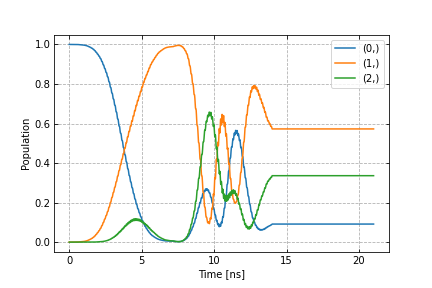
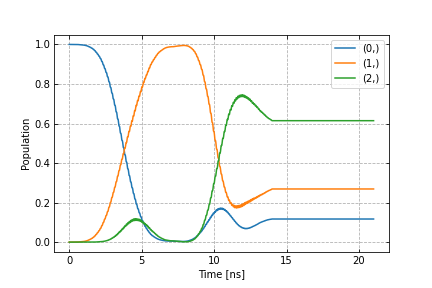
26.5.21

Changed region(s): [[0.3912, 0.1562, 0.8727, 0.8438], [0.5417, 0.2812, 0.8727, 0.4688]]

diff --git a/examples/single_qubit_rabi12.py b/examples/single_qubit_rabi12.py
@@ -39,18 +39,9 @@ def create_experiment(gatetime: np.float64 = 7e-9, anhar = -210e6) -> Exp:
     q1 = chip.Qubit(
         name="Q1",
         desc="Qubit 1",
-        freq=Qty(
-            value=freq,
-            min_val=4.995e9,
-            max_val=5.005e9,
-            unit="Hz 2pi",
-        ),
-        anhar=Qty(
-            value=anhar,
-            # min_val=-380e9,
-            # max_val=-120e6,
-            unit="Hz 2pi",
-        ),
+        freq=Qty(value=freq, min_val=4.995e9, max_val=5.005e9, unit="Hz 2pi"),
+        anhar=Qty(value=anhar, # min_val=-380e9, # max_val=-120e6,
+                 unit="Hz 2pi"),
         hilbert_dim=qubit_lvls,
         temp=Qty(value=qubit_temp, min_val=0.0, max_val=0.12, unit="K"),
     )

diff --git a/c3/utils/qt_utils.py b/c3/utils/qt_utils.py
@@ -167,7 +167,7 @@ def xy_basis(lvls: int, vect: str):
     return psi
 
 
-def projector(dims, indices):
+def projector(dims, indices):   #use that for 3 dim
     """
     Computes the projector to cut down a matrix to the computational space. The
     subspaces indicated in indeces will be projected to the lowest two states,

diff --git a/c3/experiment.py b/c3/experiment.py
@@ -676,7 +676,7 @@ class Experiment:
         self.opt_gates = gates
 
     def change_pi_amp(self, amp):   #TODO
-        t_final = self.pmap.instructions['Id'].t_end
+        t_final = self.pmap.instructions['Id[0]'].t_end
         sideband = 50e6
 
         gauss_params_pi = {
